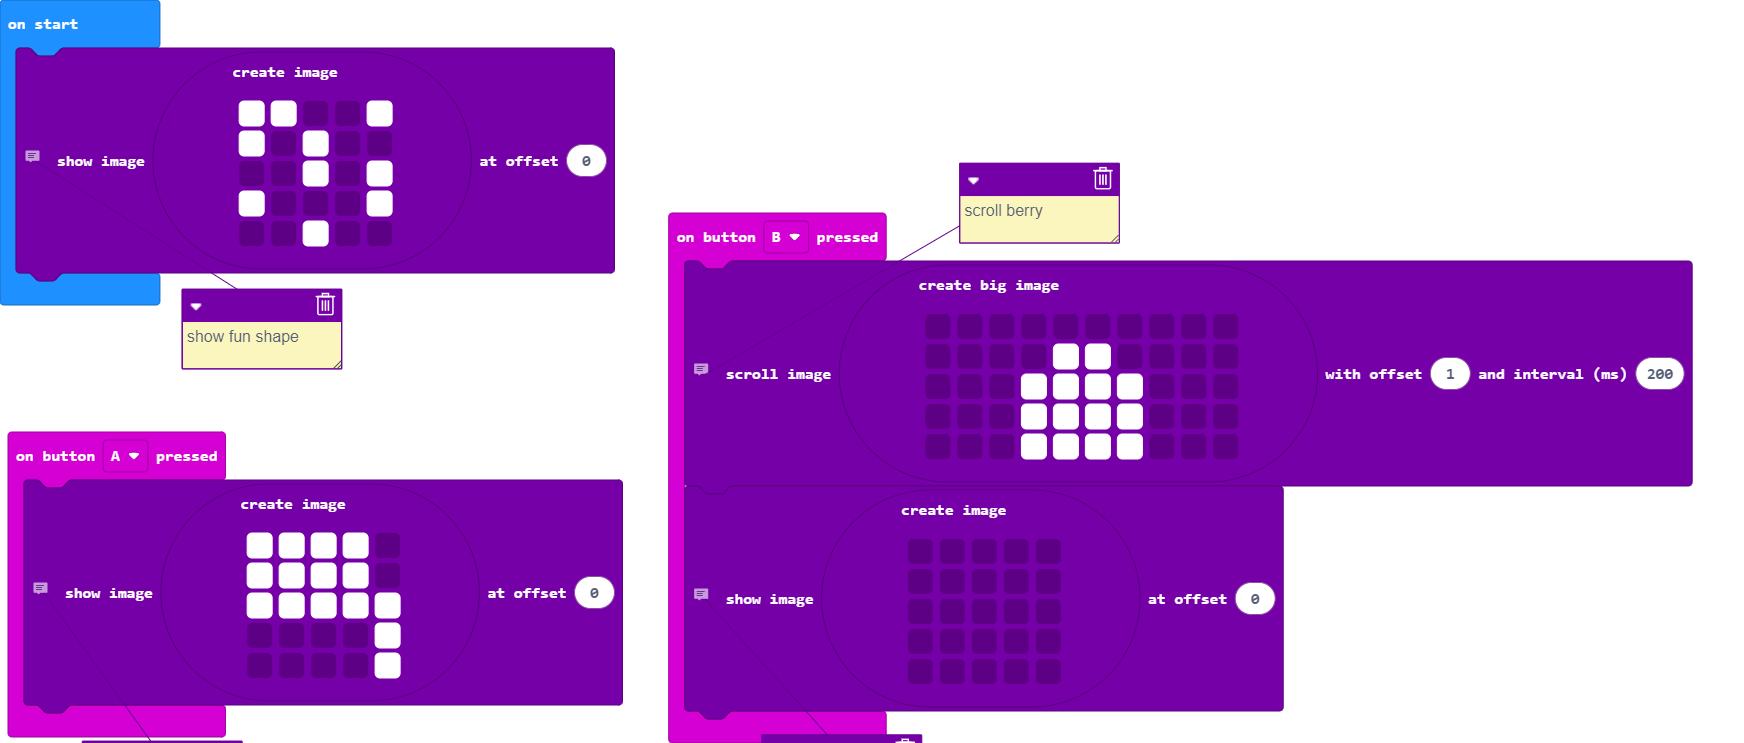
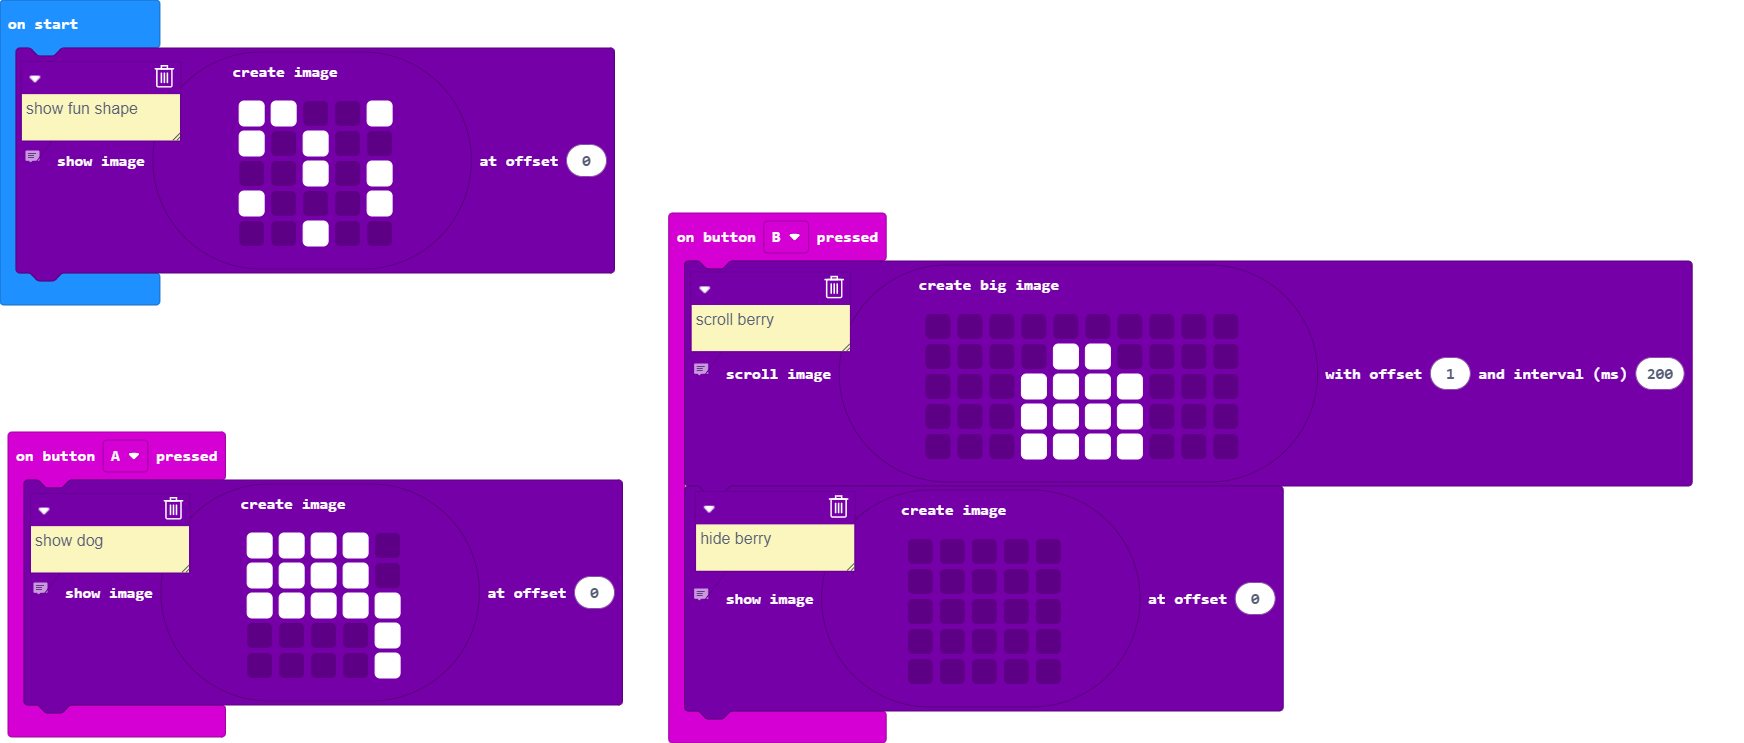
Update main.blocks, main.ts

diff --git a/main.ts b/main.ts
@@ -1,5 +1,5 @@
 input.onButtonPressed(Button.A, function () {
-    // d
+    // show dog
     images.createImage(`
         # # # # .
         # # # # .
